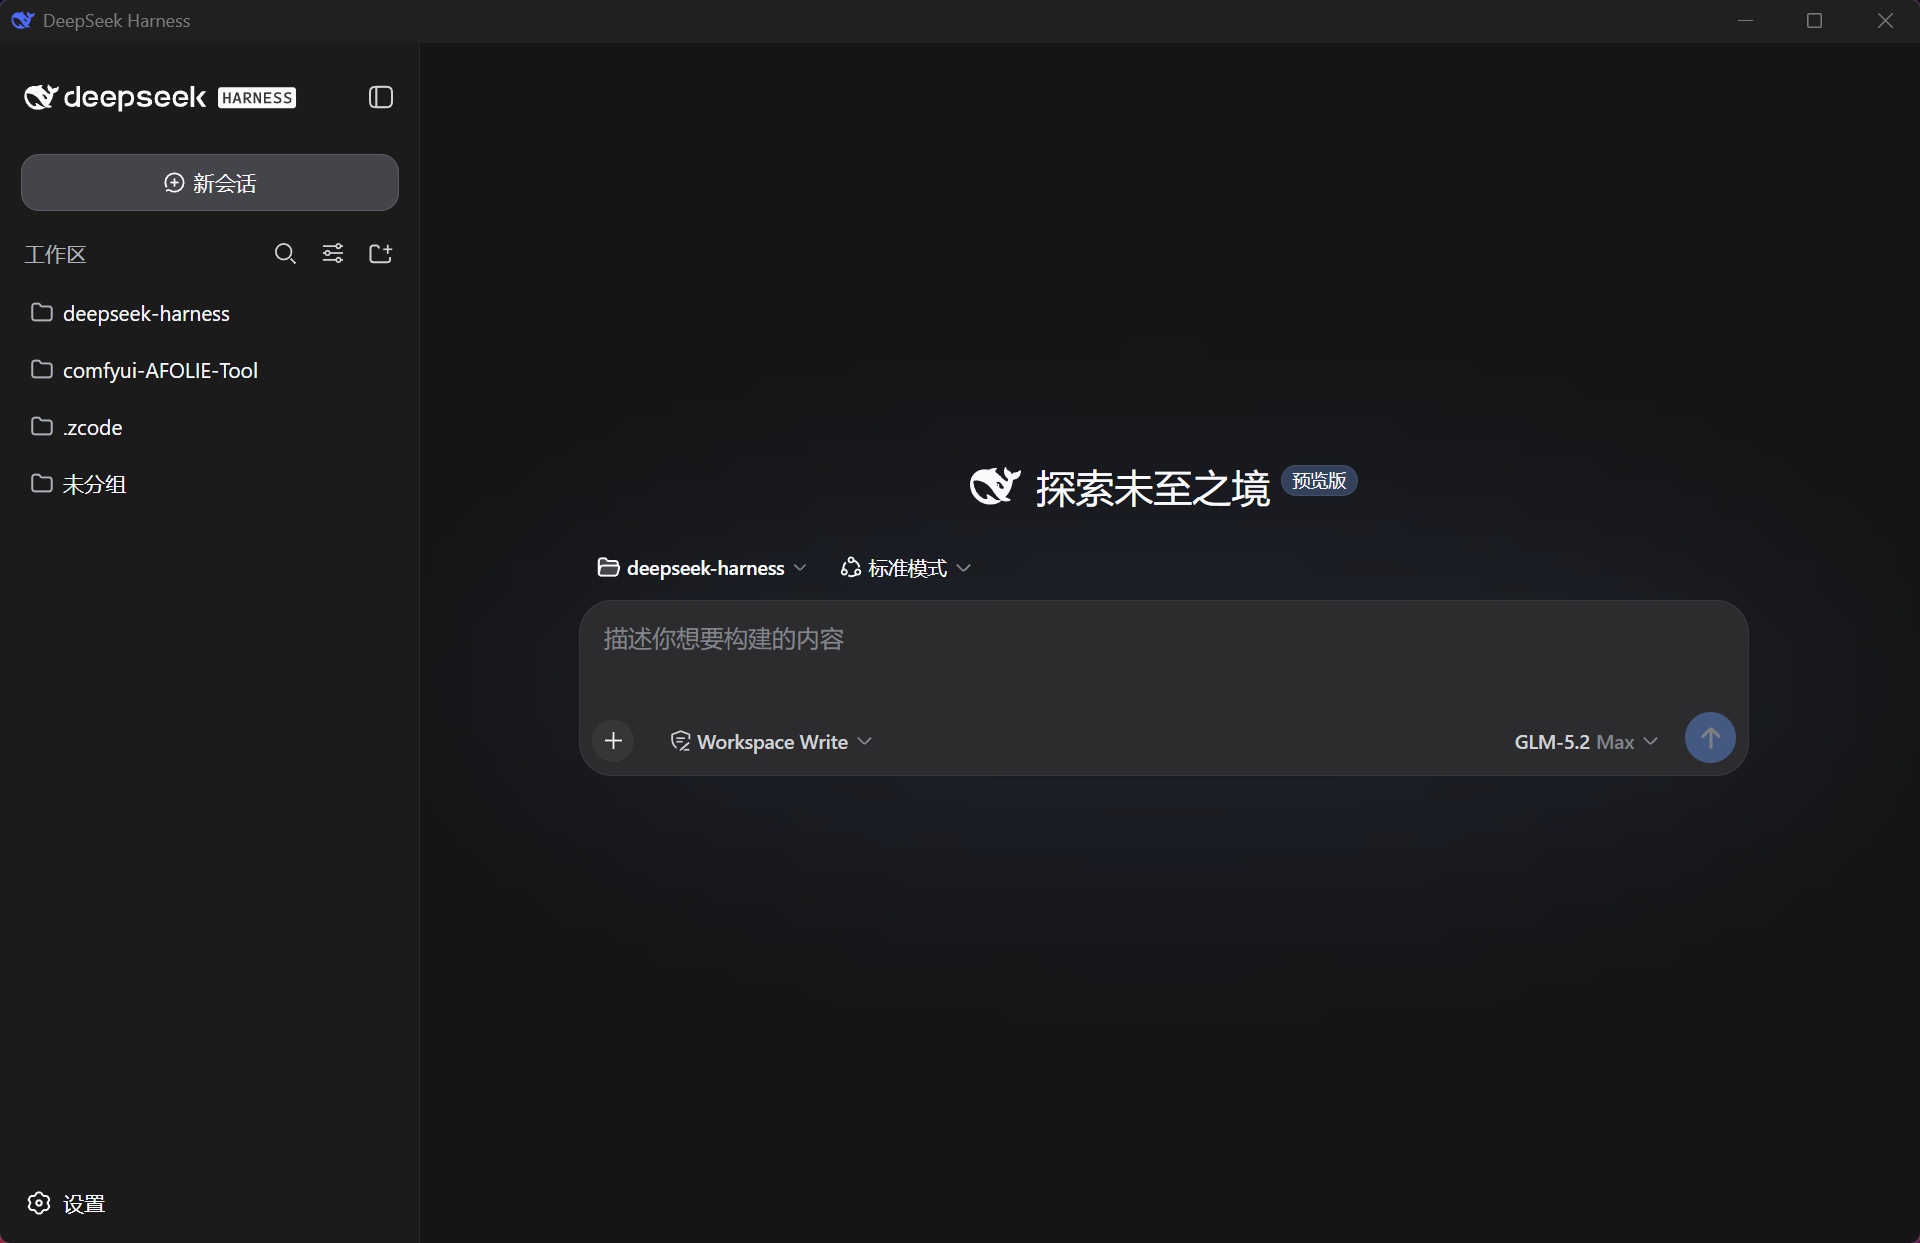
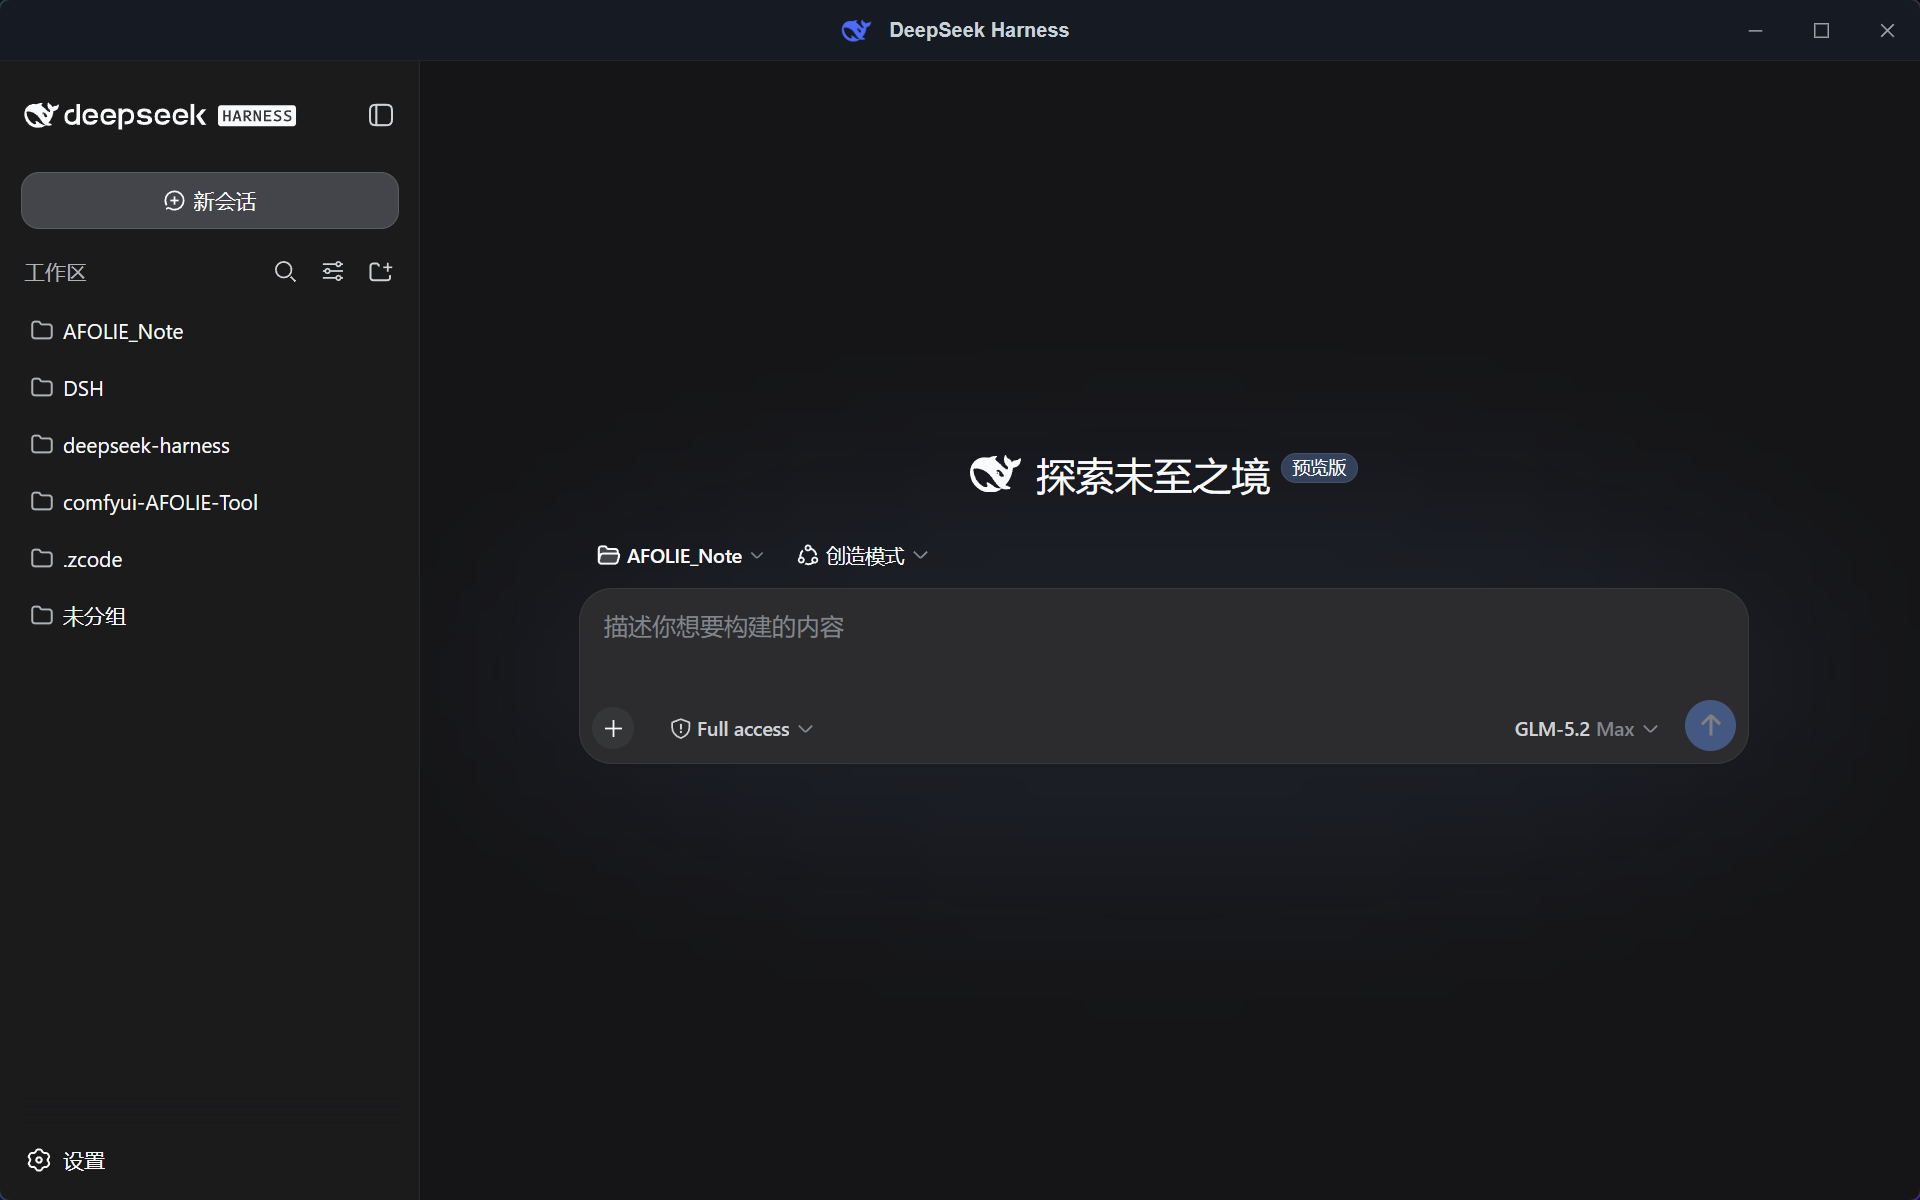
docs: README + screenshot for v1.6.2
- features rewritten for the persistent shell era: custom title bar, iframe
  webchat, environment panel, ComfyUI-style session log, diagnostic bundle,
  full app restart; structure/how-it-works sections refreshed

diff --git a/README.md b/README.md
@@ -11,21 +11,24 @@
 ## 中文
 
 DeepSeek Harness(DSH)的 Windows 桌面壳,基于 **Tauri v2 + React 18 + TypeScript**。
-打开应用 → 自动拉起本机 DSH Web 服务 → 窗口直接显示原生 webchat → 托盘常驻,任务完成弹系统通知。
-交付物是**单个免安装裸 exe**(约 4.4 MB)。
+打开应用 → 自动拉起本机 DSH Web 服务 → 窗口内嵌原生 webchat(常驻壳) → 托盘常驻,任务完成弹系统通知。
+交付物是**单个免安装裸 exe**(约 4.5 MB)。
 
 **推荐用法**:在任意文件夹执行 `pnpm add @deepseek-ai/dsh`(或 `npm i @deepseek-ai/dsh`),把 exe 放进**同一文件夹的根目录**双击即可——应用自动发现旁边的 `node_modules\.bin\dsh.cmd`,启动零下载、零配置、不询问。
 
 ### 功能
 
-- **开箱即用**:双击 exe 自动启动 DSH(`pnpm dsh web`),就绪后窗口直接打开 `http://127.0.0.1:3080/` 的**原生 webchat 界面**(不自创聊天 UI、不做反向代理)
-- **托盘常驻**:关闭窗口(X)只是隐藏到托盘,DSH 后台继续运行;**双击托盘图标**或**右键 → Open DSH** 随时唤回窗口;右键还有「重启 dsh web(后端)」「检查前端更新(手动查新版,通知播报)」
-- **DSH 监护自愈**:DSH 意外退出(市场更新自重启/崩溃)时自动重拉并刷新窗口,无需人工干预;连续快速崩溃自动熔断报错
-- **环境面板**:启动页点左上角名字或托盘「环境信息」——秋叶启动器式查看 DSH/Node/插件/端口归属/日志的真实配置
-- **自动更新带进度**:启动页左上角版本胶囊,更新时绿色缺口圆环旋转 → 完成对勾 → **自动重启生效**(无需手动重开;更新只在启动时发生,不打断对话);应用每次启动自检 GitHub 最新 Release,标题栏常驻版本号
+- **开箱即用**:双击 exe 自动启动 DSH(`dsh web`),就绪后窗口内嵌 `http://127.0.0.1:3080/` 的**原生 webchat 界面**(iframe 常驻壳,不自创聊天 UI、不做反向代理)
+- **自绘标题栏**:无边框窗口,鲸鱼标 + 「DeepSeek Harness」居中——**点名字打开环境管理面板**;拖拽区/最小化/最大化/关闭自绘,Win 贴靠与边缘缩放原生保留
+- **环境管理面板**:搜索栏(过滤字段名与值)+ 环境|日志 标签 + 四组信息卡(运行状态/DSH 内核/组件版本/位置与存储;主功能标题在卡片外,子功能共处一个大圆角卡)+ 底部 刷新检测/重启/更多;复制⧉、打开目录📁一键图标,聊天状态在面板期间保留(背后虚化)
+- **日志体系(ComfyUI 式)**:dsh.log 只记壳自身事件(启动/监护/更新;DSH web 输出不入日志,不再膨胀),`[本地时间] [INFO/WARN/ERROR]` 格式逐行着色,每次启动轮转历史文件;启动页「查看日志」实时看终端在跑什么;日志页带等级筛选/自动跟随/清空显示
+- **诊断包**:面板「更多 → 导出诊断信息」一键把环境配置+本次日志组装成 markdown——复制到剪贴板可直接粘贴给 AI 排障,无需翻目录查全局安装
+- **托盘常驻**:关闭窗口(X)只是隐藏到托盘,DSH 后台继续运行;**双击托盘图标**或**右键 → Open DSH** 随时唤回窗口;右键还有「重启 dsh web(后端)」「重启前端(完整重启)」「检查前端更新」「环境信息」
+- **DSH 监护自愈**:DSH 意外退出(市场更新自重启/崩溃)时自动重拉并刷新界面,无需人工干预;连续快速崩溃自动熔断报错
+- **自动更新带进度**:更新时顶栏名字旁绿色圆环旋转 → 完成对勾 → **自动重启生效**(无需手动重开;更新只在启动时发生,不打断对话);应用每次启动自检 GitHub 最新 Release
 - **插件包自动同步**:应用更新后自动把已安装的 dsh-desktop-plugin 对齐到同一版本(带 pnpm 新发布冷却期旁路),插件市场不再反复提示重新下载
 - **图片拖放/粘贴**:与浏览器一致——可拖入或粘贴 png/jpg/webp/gif 作为对话附件(DSH v1 支持的四种格式)
-- **一键重启 DSH**:托盘右键 → 「重启 DSH」即可完整重启 DSH 服务(杀掉 3080 进程树并重新拉起),无需退出应用再点桌面快捷方式;会话数据在 `~/.dsh` 持久化,不丢失
+- **一键重启 DSH**:托盘「重启 dsh web(后端)」只重启 DSH 服务(会话数据在 `~/.dsh` 持久化);「重启前端(完整重启)」连壳带后端全新拉起,插件卡死 webchat 时一键满血——面板「更多」里也有同款
 - **托盘图标固定任务栏**:启动时自动写入 Windows 通知区域设置(`IsPromoted`),图标不再每次被收进任务栏角溢出
 - **任务完成通知**:会话从运行中转为空闲时弹 Windows 系统通知,带两个按钮——**「打开窗口」**(复现并聚焦窗口)和**「明白」**(收起通知);不点击则数秒后自动收起
 - **链接右键菜单**:在聊天里的链接上右键,显示简洁菜单「在浏览器中打开」/「复制链接」(替换误导性的 WebView2 默认菜单);左键点击外链仍由系统默认浏览器打开
@@ -78,18 +81,20 @@ pnpm tauri build    # 产物:src-tauri\target\release\dsh-desktop-windowos.exe
 
 ### 工作原理
 
-- Rust 侧以 `POST /api/host.describe` 探测就绪(`result.ok === true` 即就绪);启动走本地优先候选链:`DSH_CMD` 环境变量(首个候选,失败自动降级)→ 自定义路径(启动页输入,持久化在 `settings.json`)→ `dsh web`(PATH 全局,经 `where dsh` 检查)→ `node_modules\.bin\dsh.cmd`(exe 同目录/工作目录/用户目录)→ 已确认过的 `npx --yes @deepseek-ai/dsh web`;链空则发 `notfound` 事件,启动页提供一键 `npm install -g`(应用代跑)、npx 备选、路径输入等选项;每个候选独立就绪窗口,失败自动降级并在日志/错误信息中记录每次尝试;子进程经 `cmd /S /C` 拉起(加 `CREATE_NO_WINDOW`,stdout/stderr 写日志)
+- Rust 侧以 `POST /api/host.describe` 探测就绪(`result.ok === true` 即就绪);启动走本地优先候选链:`DSH_CMD` 环境变量(失败自动降级)→ 自定义路径 → `dsh web`(PATH 全局)→ 项目本地 `node_modules\.bin\dsh.cmd` → 已确认过的 npx;链空则发 `notfound` 事件,启动页提供一键 `npm install -g`、npx 备选、路径输入;每个候选独立就绪窗口,失败自动降级并逐次入日志;DSH web 子进程经 `cmd /S /C` 拉起(`CREATE_NO_WINDOW`,stdout/stderr 丢弃——DSH 有自己的 `~/.dsh/logs`,壳日志只记自身事件并按会话轮转)
 - 监听 `ws://127.0.0.1:3080/api/events.host`,在 `host/session-status` 的 `running` 出现 **true→false 边沿**且主窗口隐藏时,经 `session.list` 取会话标题弹通知
 - 裸 exe 无安装器,Windows 会静默吞 Toast——应用启动时自动在注册表注册 AppUserModelID(`HKCU\Software\Classes\AppUserModelId\com.dsh.desktop`)保证通知可达
 
 ### 项目结构
 
 ```
-src/                 React boot 页(等待/错误态;就绪后整窗跳转 3080)
+src/                 React 常驻壳:自绘顶栏 + boot 视图 + webchat iframe
+  EnvPanel.tsx       环境管理面板(搜索/环境|日志标签/信息卡/日志控制台)
 src-tauri/src/
-  dsh.rs             DSH 生命周期:探测 / spawn / 等就绪 / taskkill /T 退出清理
+  dsh.rs             DSH 生命周期:探测 / spawn / 监护自愈 / 会话日志(轮转+等级)
   monitor.rs         events.host WS 监听:running 边沿 + 两按钮通知 + 断线重连
-  lib.rs             托盘、窗口 X=隐藏、single-instance、AUMID 注册
+  update.rs          自更新(多路由下载+完整性校验) / 插件同步 / 完整重启
+  lib.rs             托盘、窗口 X=隐藏、single-instance、AUMID 注册、面板命令
 plugin/              DSH 插件(npm: dsh-desktop-plugin):自动安装/升级 exe + 双快捷方式 + desktop_launch 工具
 icon-src/            图标源(DeepSeek 鲸鱼标,品牌蓝 #4D6BFE)
 ```
@@ -99,16 +104,19 @@ icon-src/            图标源(DeepSeek 鲸鱼标,品牌蓝 #4D6BFE)
 ## English
 
 A Windows desktop shell for DeepSeek Harness (DSH), built with **Tauri v2 + React 18 + TypeScript**.
-Launch the app → it auto-starts the local DSH web service → the window shows the native webchat → tray-resident with system notifications on task completion.
-Ships as a **single portable bare exe** (~4.4 MB, no installer).
+Launch the app → it auto-starts the local DSH web service → the window embeds the native webchat in a persistent shell → tray-resident with system notifications on task completion.
+Ships as a **single portable bare exe** (~4.5 MB, no installer).
 
 **Recommended setup**: run `pnpm add @deepseek-ai/dsh` (or `npm i @deepseek-ai/dsh`) in any folder, then drop the exe into **that folder's root** and double-click — the app auto-discovers the adjacent `node_modules\.bin\dsh.cmd`: zero download, zero config, no questions asked.
 
 ### Features
 
-- **Zero-setup**: double-click the exe and it starts DSH (`pnpm dsh web`); once ready, the window opens the **native webchat** at `http://127.0.0.1:3080/` (no custom chat UI, no reverse proxy)
-- **Tray-resident**: closing the window (X) only hides it to the tray while DSH keeps running; **double-click the tray icon** or **right-click → Open DSH** brings the window back
-- **One-click DSH restart**: tray right-click → "重启 DSH" fully restarts the DSH service (kills the process tree on 3080 and starts it again) — no need to quit and re-launch from the desktop shortcut; sessions persist in `~/.dsh`
+- **Zero-setup**: double-click the exe and it starts DSH (`dsh web`); once ready, the window embeds the **native webchat** at `http://127.0.0.1:3080/` in a persistent same-window iframe (no custom chat UI, no reverse proxy)
+- **Custom title bar**: undecorated window with the whale mark + "DeepSeek Harness" centered — **click the name to open the environment panel**; drag/min/max/close are self-drawn, native snap and edge-resize intact
+- **Environment panel**: search bar (filters field names/values) + 环境|日志 tabs + four grouped fact cards (runtime / DSH kernel / component versions / storage) + bottom actions (re-detect / restart / more); copy & open-in-Explorer icon buttons; chat state survives panel visits (page behind is blurred)
+- **ComfyUI-style logging**: dsh.log records only shell events (startup/supervision/updates; DSH's own output is not logged), timestamped `[INFO/WARN/ERROR]` rows with level coloring, rotated per session; a 查看日志 link on the boot page streams what the terminal is doing
+- **Diagnostic bundle**: 更多 → 导出诊断信息 packs env facts + the session log into markdown on your clipboard — paste it to any AI instead of hunting through the install
+- **Tray-resident**: closing the window (X) only hides it to the tray while DSH keeps running; **double-click the tray icon** or **right-click → Open DSH** brings the window back; the menu also has "重启 dsh web(后端)" (backend restart), "重启前端(完整重启)" (full app restart — the go-to when a plugin wedges things) and the update check
 - **Tray icon pinned to the taskbar**: the app writes the Windows notification-area setting (`IsPromoted`) at startup, so the icon no longer falls into the overflow on every launch
 - **Task-done notification**: when a session transitions from running to idle, a Windows toast fires with two buttons — **"Open Window"** (restore & focus) and **"Got it"** (dismiss); left untouched it auto-collapses after a few seconds
 - **Link context menu**: right-clicking a link in the chat shows a clean two-item menu — "Open in browser" / "Copy link" (replacing the misleading default WebView2 menu); left-click still opens external links in the system default browser
